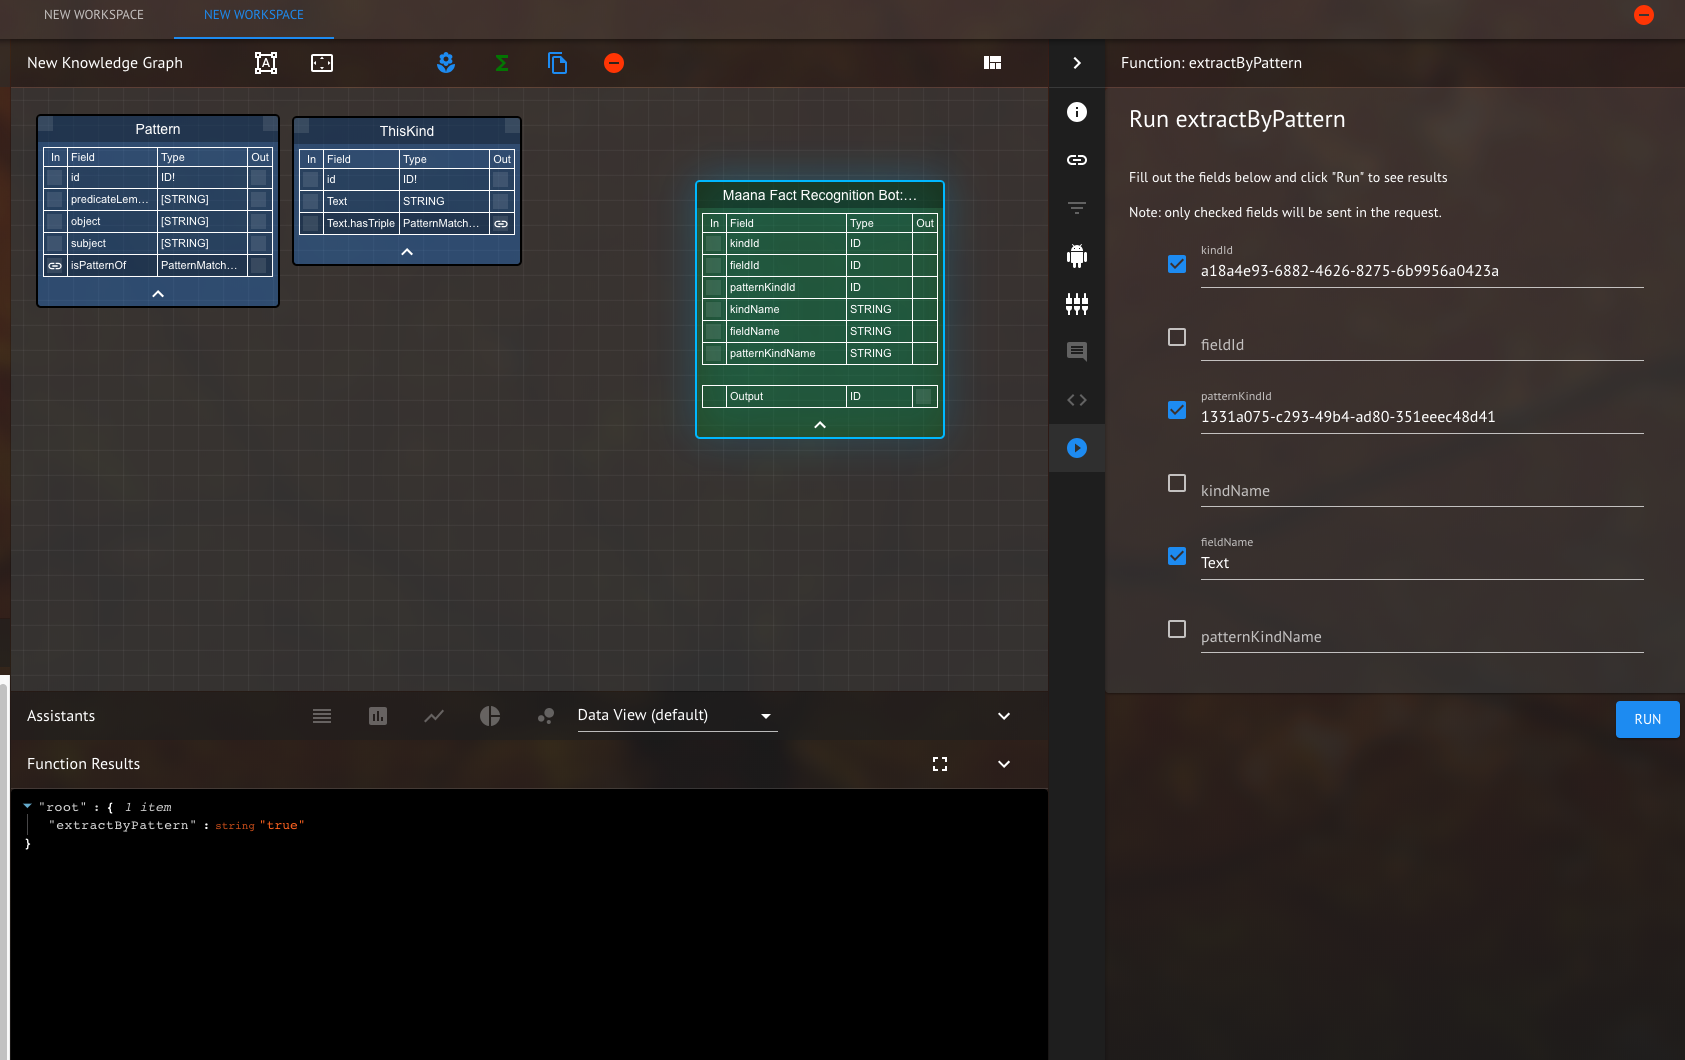
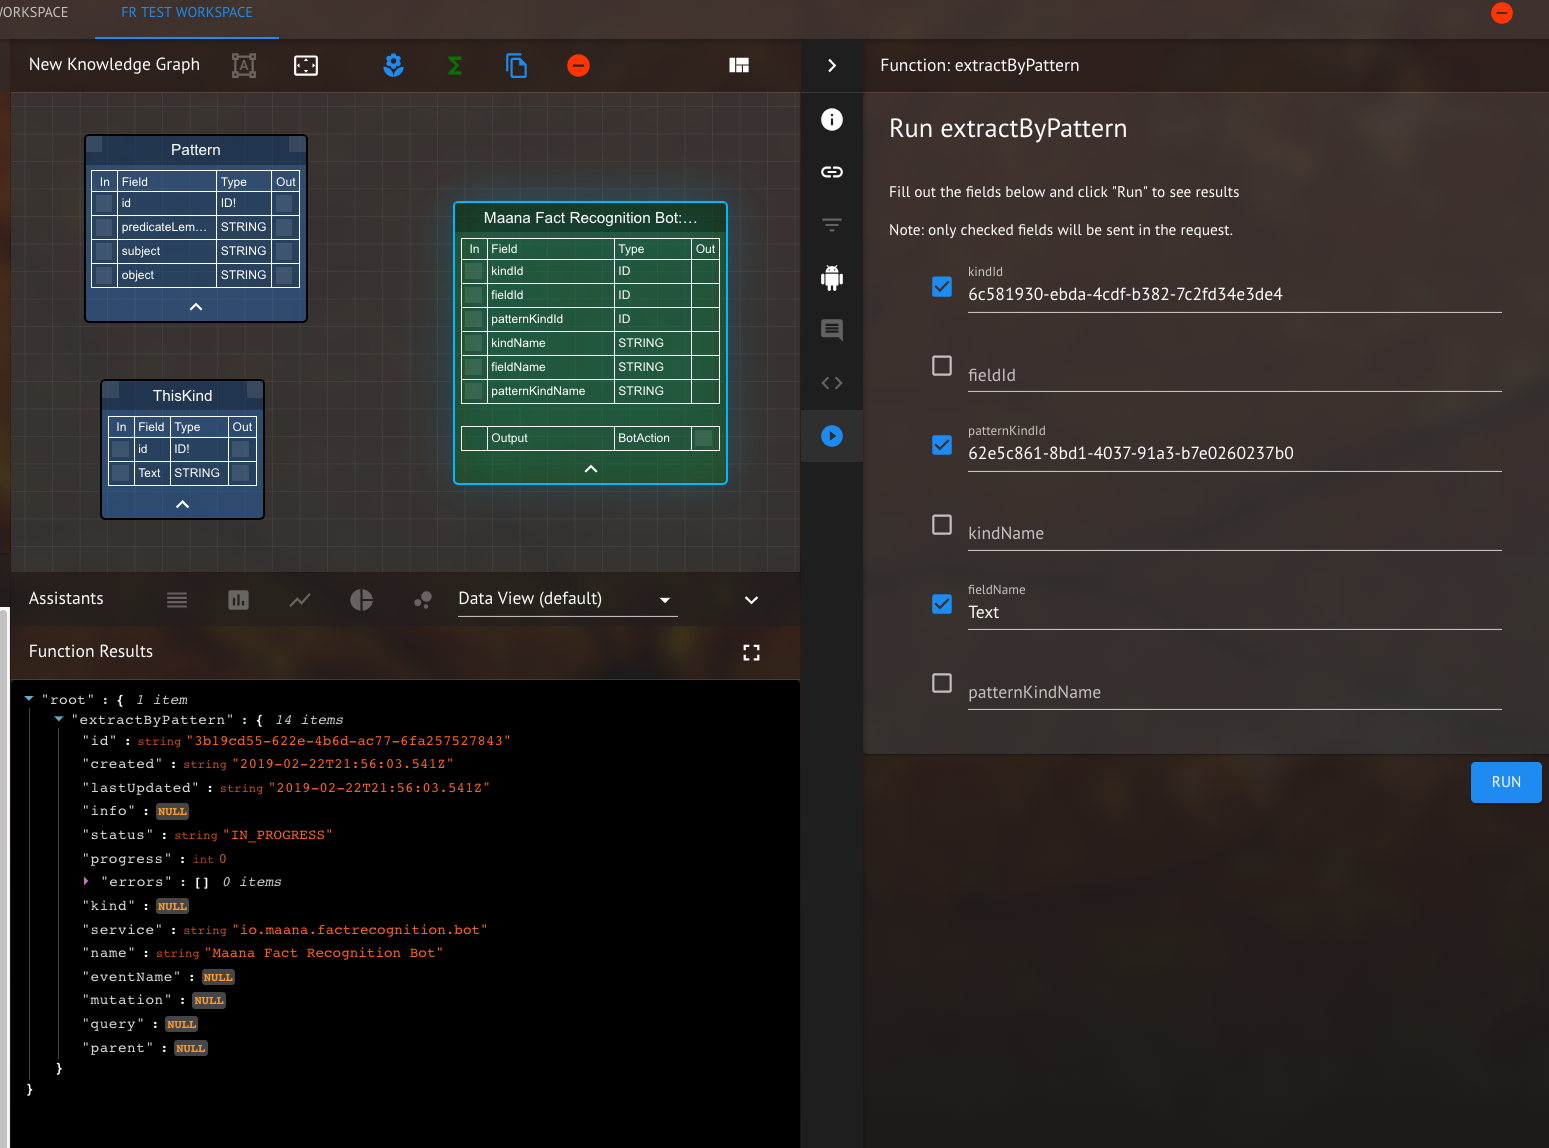
Updating with bot action results.

diff --git a/maana-fact-recognition-bot/README.md b/maana-fact-recognition-bot/README.md
@@ -24,18 +24,13 @@ In order to use the fact extraction service (information extraction) you need
 
 ### Creating The Patterns Kind
 
-The Pattern kind (which can have any name) can be created manually. Add a new kind to the workspace (name it "Pattern"), edit the schema to include "predicateLemmas" of type String with modifier LIST, "object" of type String with modifier LIST and "subject" of type String with modifier LIST.  Now in order to add data to your kind you need to name your workspace.  In this example the workspace is named "FR Test Workspace".  You can drag your workspace into the services inventory and use the functions that it creates to add data to the "Patterns" kind.  Once you've named the workspace, search for it in the Search bar.  It will appear under both "workspace" and "services".  Drag this workspace onto the services inventory so that the functions become available.  See Figures 3 and 4 for details.
-<p><p><img src="FRServiceSearch.png" alt="Kind", style="height: 80%; width: 80%; align: center"/>
+The Pattern kind (which can have any name) can be created manually. Add a new kind to the workspace (name it "Pattern"), edit the schema to include "predicateLemmas" of type String with modifier LIST, "object" of type String with modifier LIST and "subject" of type String with modifier LIST.  Now in order to add data to your kind you need to name your workspace.  Once the kind is created, functions for the kind should be visible in the service inventory.  Your workspace should look like that below
 </p>
-<em>Figure 3: Give your workspace a name, in this case it is called "FR Test Kind".  You should now be able to search
-for the workspace and it should appear under the "Services" option.</em>
+<p><p><img src="FRServiceFunctions.png" alt="Kind", style="height: 80%; width: 80%; align: center"/>
 </p>
-<p><p><img src="FRServiceFunctions.png" alt="Kind", style="height: 30%; width: 30%; align: center"/>
+<em>Figure 4: There will be a set of functions for every Kind in your workspace.  These functions can be used to manipulate the Kinds.</em>
 </p>
-<em>Figure 4: Drag the "FR Test Kind" service (your workspace service) into the services inventory.  The "FR Test Workspace" should now
-appear in the services inventory and the functions it provides should be available.  There will be a set of functions for every kind in your workspace.</em>
-</p>
-After the service has been added to the services inventory, drag the addPattern function onto the workspace.  In this case set predicateLemmas to "buy" and set subject and object to "ANY" as below.
+Drag the addPattern function onto the workspace.  In this case set predicateLemmas to "buy" and set subject and object to "ANY" as below.
 <p><p><img src="FRaddPattern.png" alt="Kind", style="height: 80%; width: 80%; align: center"/>
 </p>
 <em>Figure 5: Fill in the pattern information for the addPattern information.</em>
@@ -49,15 +44,9 @@ Next create a kind containing the text you wish to extract - call it "ThisKind".
 </p>
 <em>Figure 6: Add text to the "ThisKind" kind with the addThisKind function.</em>
 </p>
-```ruby
-mutation b {
-  addThisKind(input: { Text: "Alex bought a bike" })
-}
-```
 
-After you have have created the 2 kinds you can run the fact recognition bot.
-
-(1) Select the Maana Entity Extractor service
+After you have have created the 2 kinds you can run the fact recognition bot.  First, search for the "Maana Fact Recognition Bot" and drag it to the services inventory.
+Drag the extractByPattern function onto the workspace.
 
 Inside the graphiql for the service use the following mutation (In the mutation below the fieldName is "Text", but that should be the name of the field containing the text you want to extract.) Notice that below, kind ID's are used and not names. "kindId" refers to the ID for "ThisKind" and "patternID" refers to the ID for "Pattern".
 
@@ -100,14 +89,15 @@ extractByExampleKind(kindId: ID, fieldId: ID, exampleKindId: ID, kindName: Strin
 
 In order to experiment with these tools, first upload the file [simpleFacts.csv](simpleFacts.csv) into Maana and store the Id of the associated Kind it creates. Next, create a kind to store the results in, name this kind "PurchaseEvent" and it should have the schema "{name : "STRING", object : "STRING", price : "STRING", location : "STRING"}.
 
-mutation 1
-With those two kinds created we can perform the first query and see the results - below the kindId should be the Id for "SimplefactsCSV" and the storageKindId should be the id for "PurchaseEvent". In this query, the mapping is specified as an list of name/value graphql objects.
+### Mutation 1
 
-```ruby
+Using the first mutation, we can perform the first query and see the results - below the kindId should be the Id for "SimplefactsCSV" and the storageKindId should be the id for "PurchaseEvent". In this query, the mapping is specified as an list of name/value graphql objects.
+
+```graphql
 mutation a {
 extractByExample(
   kindId: "bbcb2d1f-1c0c-4d81-adff-39de27d8fc52", #your SimplefactsCSV Kind Id
-    fieldName : "Text",
+    fieldName : "text",
     mapping : [
       {name : "name", value : "Carl"},
       {name : "object", value : "fish"},
@@ -127,7 +117,7 @@ The result should be several entries in the "PurchaseEvent" kind - as below
 <em>Figure 9: Result shown in the PurchaseEvent kind</em>
 </p>
 
-### mutation 2
+### Mutation 2
 
 In order to perform the second mutation the user needs to create an additional kind to store the example and mapping information. Create a new kind and call it "exampleContainer". The "exampleContainer" should have schema
 
@@ -143,7 +133,7 @@ In order to perform the second mutation the user needs to create an additional k
 
 create an instance of the "exampleContainer" with the following mutation below, where kindId is the id of the purchaseEvent kind.
 
-```ruby
+```graphql
 mutation e {
 addexampleContainer(
   input: {
